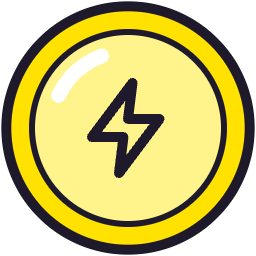
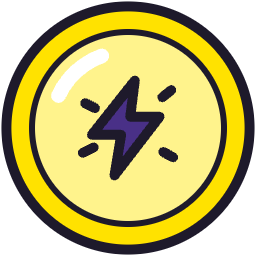
동기화: secret wip (7ca6ed611) 의 frontend/apps/pallo-app 그대로 — 번개 단골 배지 더 강력하게

Changed region(s): [[0.2812, 0.2812, 0.6875, 0.7188], [0.625, 0.5625, 0.7188, 0.6562]]

diff --git a/mobile/src/data/my.ts b/mobile/src/data/my.ts
@@ -284,7 +284,7 @@ export function followLists(name: string, me: { name: string; branch: string }, 
 
 // ---------------------------------------------------------------- 배지
 
-export type BadgeIcon = 'flame' | 'bolt' | 'users' | 'mic' | 'book' | 'crown' | 'heart' | 'plane';
+export type BadgeIcon = 'flame' | 'bolt' | 'boltPower' | 'users' | 'mic' | 'book' | 'crown' | 'heart' | 'plane';
 
 /**
  * 배지 달성 조건 유형 — 서버(AppBadgeConditionType)가 판정할 줄 아는 것만. 받는 방법 문구 · 이동할 곳은 data/badge-rules.ts.
@@ -325,7 +325,7 @@ export const MY_BADGES: Badge[] = [
   { code: 'first-hangout', ic: 'bolt', imageUrl: null, name: '첫 번개', desc: '번개 첫 참여', on: true, earnedAt: '2026-11-08T10:30:00Z', cond: { type: 'HANGOUT_JOIN_COUNT', threshold: 1, progress: 2 } },
   { code: 'first-club', ic: 'users', imageUrl: null, name: '동아리 멤버', desc: '동아리 첫 가입', on: false, earnedAt: null, cond: { type: 'CLUB_JOIN_COUNT', threshold: 1, progress: 0 } },
   { code: 'speak-100', ic: 'mic', imageUrl: null, name: '말하기 100', desc: '따라 말하기 100문장', on: true, earnedAt: '2026-11-25T09:00:00Z', cond: { type: 'SHADOWING_SENTENCE_COUNT', threshold: 100, progress: 100 } },
-  { code: 'hangout-5', ic: 'bolt', imageUrl: null, name: '번개 단골', desc: '번개 5번 참여', on: false, earnedAt: null, cond: { type: 'HANGOUT_JOIN_COUNT', threshold: 5, progress: 2 } },
+  { code: 'hangout-5', ic: 'boltPower', imageUrl: null, name: '번개 단골', desc: '번개 5번 참여', on: false, earnedAt: null, cond: { type: 'HANGOUT_JOIN_COUNT', threshold: 5, progress: 2 } },
   { code: 'weekly-top-3', ic: 'crown', imageUrl: null, name: '주간 TOP 3', desc: '주간 랭킹 3위 안', on: false, earnedAt: null, cond: { type: 'WEEKLY_RANK_TOP', threshold: 3, progress: null } },
   { code: 'popular-post', ic: 'heart', imageUrl: null, name: '인기 글', desc: '좋아요 50개 받은 글', on: false, earnedAt: null, cond: { type: 'POST_LIKES_ON_ONE_POST', threshold: 50, progress: 38 } },
   { code: 'speak-1000', ic: 'mic', imageUrl: null, name: '말하기 1000', desc: '따라 말하기 1000문장', on: false, earnedAt: null, cond: { type: 'SHADOWING_SENTENCE_COUNT', threshold: 1000, progress: 214 } },
@@ -334,6 +334,8 @@ export const MY_BADGES: Badge[] = [
 export const BADGE_PATH: Record<BadgeIcon, string> = {
   flame: 'M12 3c2 4 6 6 6 11a6 6 0 0 1-12 0c0-3 2-4 2-7 2 1 3 3 3 5 1-2 1-6 1-9z',
   bolt: 'M13 2 4 14h7l-1 8 9-12h-7z',
+  /** 번개 단골 — 더 크고 보라로 꽉 찬 번개 + 양옆으로 튀는 불꽃 (첫 번개보다 한 단계 위) */
+  boltPower: 'M13.5 1.5 4 13.5h6.5L9 22.5l10-13h-6.5z',
   users: 'M9 11a4 4 0 1 0 0-8 4 4 0 0 0 0 8zM2 21a7 7 0 0 1 14 0M16 3a4 4 0 0 1 0 8M18 14a6 6 0 0 1 4 7',
   mic: 'M12 3a3 3 0 0 1 3 3v6a3 3 0 0 1-6 0V6a3 3 0 0 1 3-3zM5 11a7 7 0 0 0 14 0M12 18v3',
   book: 'M4 5.5A2.5 2.5 0 0 1 6.5 3H20v15H6.5A2.5 2.5 0 0 0 4 20.5zM4 20.5V5.5',

diff --git a/mobile/src/data/badge-rules.ts b/mobile/src/data/badge-rules.ts
@@ -13,6 +13,8 @@ type Rule = {
   ic: BadgeIcon;
   /** 이 기준부터는 높은 단계 배지 — 동그라미 대신 왕관 방패로 그려요 (예: 말하기 100 동그라미 · 1000 방패) */
   grandFrom?: number;
+  /** 이 기준부터는 더 센 아이콘 (예: 첫 번개 번개 · 번개 단골 꽉 찬 번개 + 불꽃) */
+  strongIc?: { from: number; ic: BadgeIcon };
   /** 값 단위 — 진행 '2 / 5번' */
   unit: string;
   /** 받는 조건 한 줄 */
@@ -31,6 +33,7 @@ export const BADGE_RULE: Record<BadgeConditionType, Rule> = {
   HANGOUT_JOIN_COUNT: {
     kind: '번개',
     ic: 'bolt',
+    strongIc: { from: 5, ic: 'boltPower' },
     unit: '번',
     how: (n) => (n === 1 ? '번개에 처음 참여하면 받아요' : `번개에 ${n}번 참여하면 받아요`),
     left: (l) => `${l}번 더 참여하면 받아요`,
@@ -91,6 +94,12 @@ export const BADGE_RULE: Record<BadgeConditionType, Rule> = {
  */
 export function badgeLeftLabel(type: BadgeConditionType, left: number): string {
   return left <= 0 ? '기준을 넘었어요 · 다음 활동 때 받아요' : BADGE_RULE[type].left(left);
+}
+
+/** 조건에 맞는 아이콘 — 기준이 크면 더 센 아이콘(strongIc) */
+export function badgeIcon(type: BadgeConditionType, threshold: number): BadgeIcon {
+  const r = BADGE_RULE[type];
+  return r.strongIc && threshold >= r.strongIc.from ? r.strongIc.ic : r.ic;
 }
 
 /** 높은 단계 배지인지 — 칸 · 상세에서 동그라미 대신 왕관 방패로 그려요 */

diff --git a/mobile/src/api/__tests__/badges-api.test.ts b/mobile/src/api/__tests__/badges-api.test.ts
@@ -38,10 +38,13 @@ describe('서버 배지 → 배지 칸', () => {
     ).toEqual({ code: 'first-hangout', ic: 'heart', imageUrl: 'https://cdn.example/badge-images/a.png', name: '첫 번개', desc: '번개 첫 참여', on: false, earnedAt: null, cond: null });
   });
 
-  it('조건 · 진행이 오면 cond 로 모으고, 아이콘은 조건 유형 것으로', () => {
+  it('조건 · 진행이 오면 cond 로 모으고, 아이콘은 조건 유형 · 기준 숫자로', () => {
     const b = toBadge({ code: 'hangout-5', name: '번개 단골', description: '번개 5번 참여', imageUrl: null, earned: false, earnedAt: null, conditionType: 'HANGOUT_JOIN_COUNT', threshold: 5, progress: 2 });
-    expect(b.ic).toBe('bolt');
+    // 번개 5번부터는 더 센 번개 아이콘 (번개 단골)
+    expect(b.ic).toBe('boltPower');
     expect(b.cond).toEqual({ type: 'HANGOUT_JOIN_COUNT', threshold: 5, progress: 2 });
+    const first = toBadge({ code: 'first-hangout', name: '첫 번개', description: '번개 첫 참여', imageUrl: null, earned: true, earnedAt: null, conditionType: 'HANGOUT_JOIN_COUNT', threshold: 1, progress: 1 });
+    expect(first.ic).toBe('bolt');
   });
 });
 

diff --git a/mobile/src/components/my/my-blocks.tsx b/mobile/src/components/my/my-blocks.tsx
@@ -15,10 +15,16 @@ import { BADGE_PATH, type Badge, type BadgeIcon, type RankRow } from '@/data/my'
 import { Lift } from './lift';
 
 /** 숫자 칸 · 배지 아이콘 (프로토타입 myIc: 굵기 2.2 선) */
+/** 번개 단골 양옆 불꽃 (24 상자) */
+const BOLT_SPARKS = 'M2.5 6.5l2.2 1.1M2 17.5l2.4-1.2M21.6 3.6l-2 1.6M22 18.5l-2.2-1.2';
+
 export function BadgeIc({ ic, size = 22, color = Colors.ink }: { ic: BadgeIcon; size?: number; color?: string }) {
+  // 번개 단골: 보라로 꽉 채운 큰 번개 + 불꽃 — 받았을 때만 보라 속 (못 받았으면 선만)
+  const filled = ic === 'boltPower' && color === Colors.ink;
   return (
     <Svg width={size} height={size} viewBox="0 0 24 24" fill="none" stroke={color} strokeWidth={2.2} strokeLinecap="round" strokeLinejoin="round">
-      <Path d={BADGE_PATH[ic]} />
+      <Path d={BADGE_PATH[ic]} fill={filled ? Colors.purple : 'none'} />
+      {ic === 'boltPower' ? <Path d={BOLT_SPARKS} /> : null}
     </Svg>
   );
 }

diff --git a/mobile/src/api/use-badges.ts b/mobile/src/api/use-badges.ts
@@ -3,7 +3,7 @@
  */
 import { useMutation, useQuery, useQueryClient } from '@tanstack/react-query';
 
-import { BADGE_RULE } from '@/data/badge-rules';
+import { BADGE_RULE, badgeIcon } from '@/data/badge-rules';
 import type { Badge } from '@/data/my';
 
 import type { MyBadge } from './badges';
@@ -17,7 +17,7 @@ export function toBadge(
   const cond = b.conditionType && b.threshold != null ? { type: b.conditionType, threshold: b.threshold, progress: b.progress ?? null } : null;
   return {
     code: b.code,
-    ic: cond ? BADGE_RULE[cond.type].ic : 'heart',
+    ic: cond ? badgeIcon(cond.type, cond.threshold) : 'heart',
     imageUrl: b.imageUrl,
     name: b.name,
     desc: b.description,
